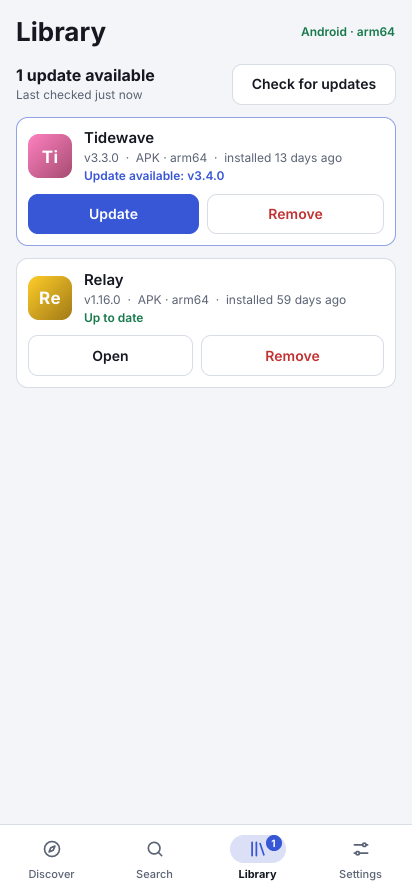
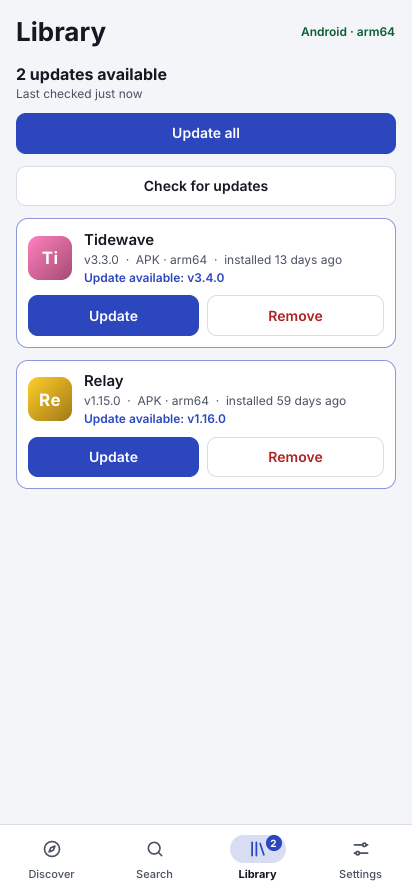
Measure the phone library page with 'Update all' showing; refresh its screenshot
Claude-Session: https://claude.ai/code/session_01HGFb9u9kBDoKGezZG4dEng

diff --git a/crates/app/tests/ui.rs b/crates/app/tests/ui.rs
@@ -777,10 +777,11 @@ fn assert_fits(s: &Session, what: &str) {
 fn everything_fits_on_the_narrowest_phone() {
     let seed = r#"{"settings":{"welcomed":true},"recent_searches":["editor","backup"],"library":[
         {"id":"github:tidewave/tidewave","name":"Tidewave","version":"v3.3.0","label":"APK · arm64","installed_at":1794000000},
-        {"id":"github:relay-app/relay","name":"Relay","version":"v1.16.0","label":"APK · arm64","installed_at":1790000000}]}"#;
+        {"id":"github:relay-app/relay","name":"Relay","version":"v1.15.0","label":"APK · arm64","installed_at":1790000000}]}"#;
     let s = start_with("android-arm64", Shell::Mobile, Some(seed));
     s.ui.window().set_size(slint::LogicalSize::new(320.0, 640.0));
     s.app.check_updates(&s.ui, true);
+    assert_eq!(s.store().get_updates_count(), 2, "so that Update all is on the page being measured");
     assert_fits(&s, "discover");
     for (page, name) in [(1, "search"), (2, "library"), (3, "settings")] {
         s.store().set_page(page);
